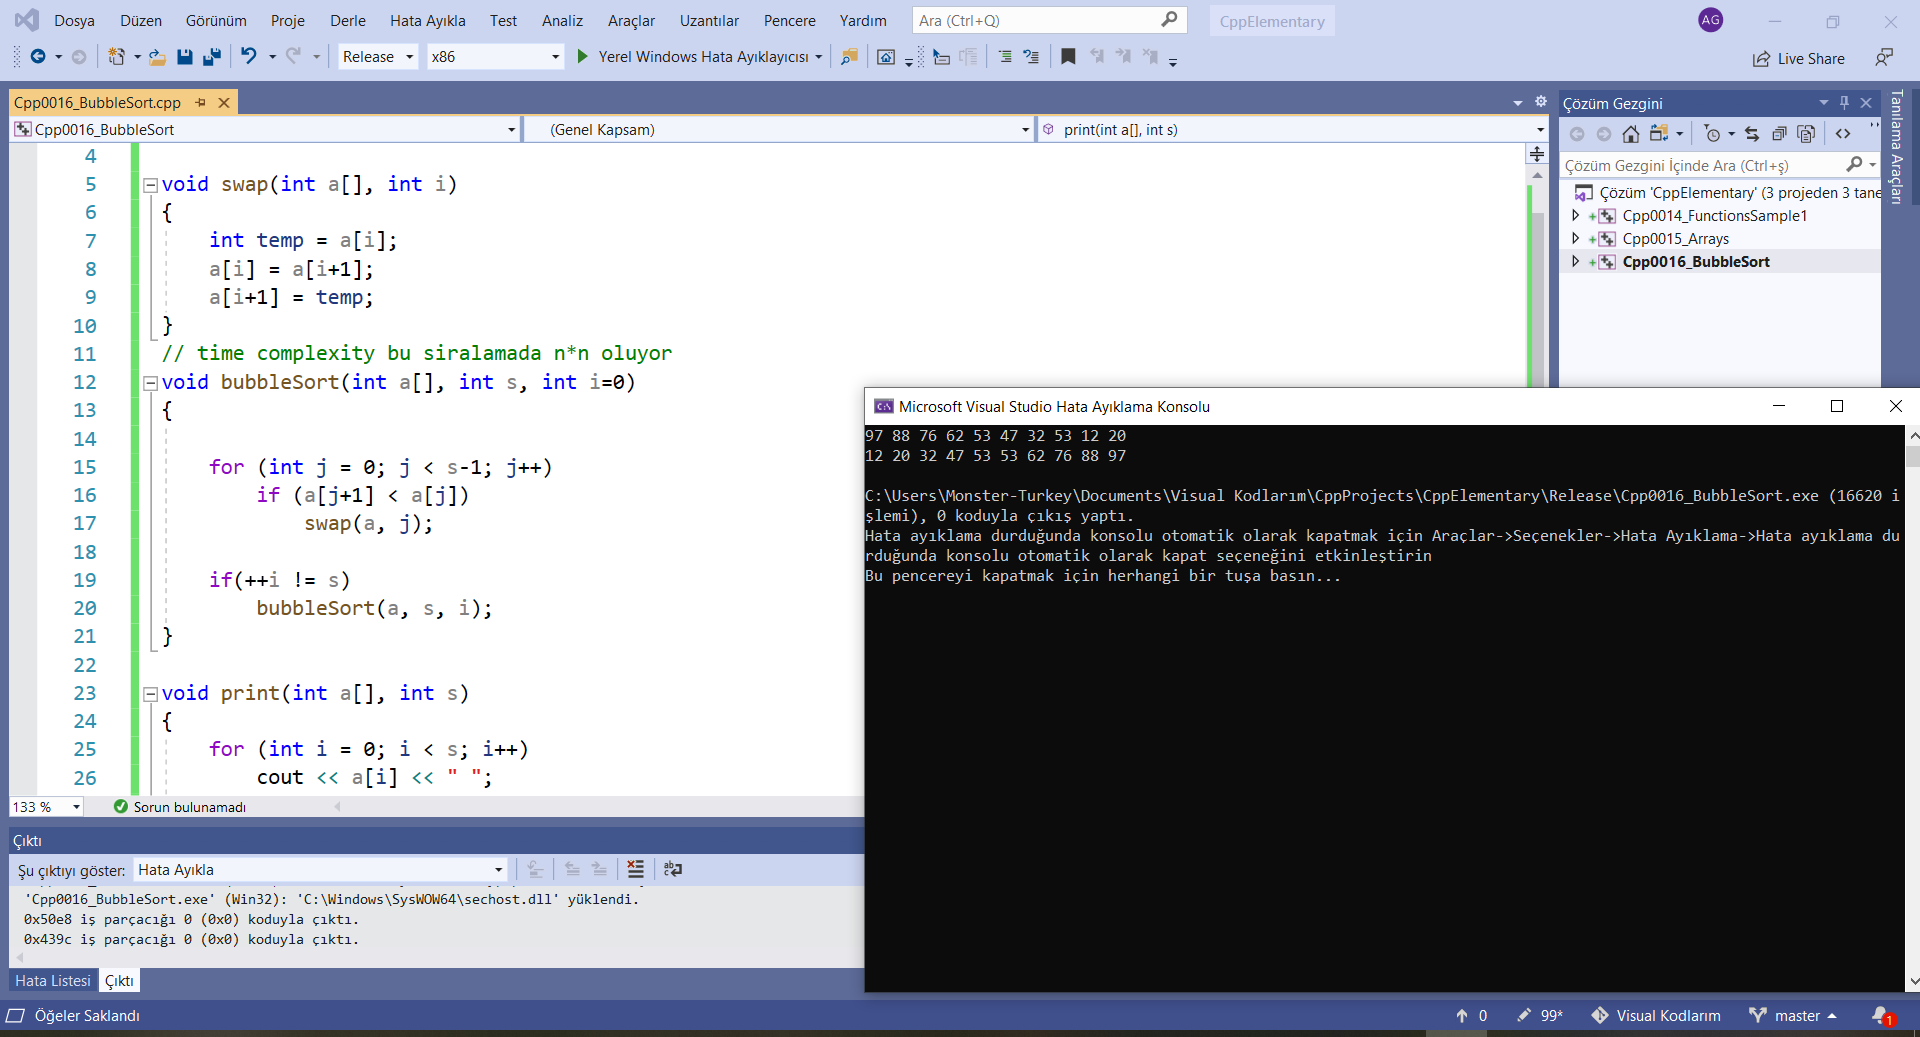
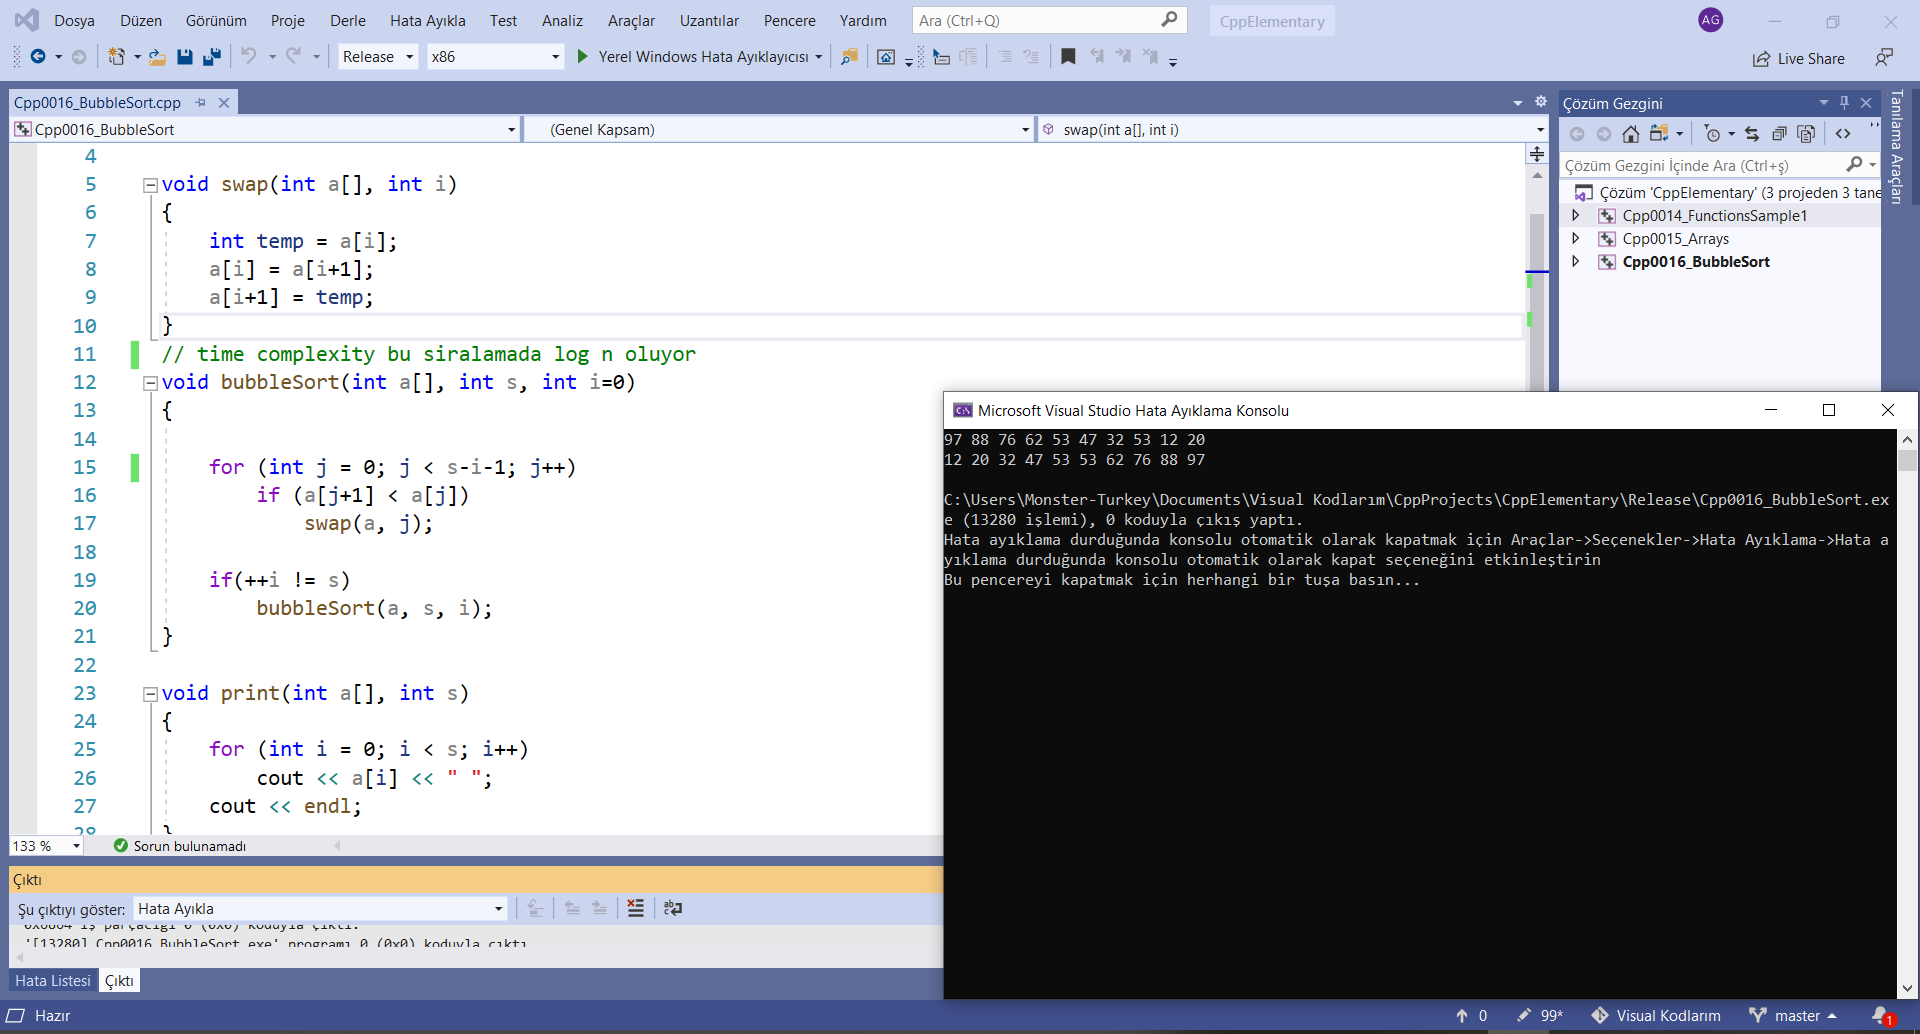
initial commit

diff --git a/Cpp0016_BubbleSort.cpp b/Cpp0016_BubbleSort.cpp
@@ -8,11 +8,11 @@ void swap(int a[], int i)
 	a[i] = a[i+1];
 	a[i+1] = temp;
 }
-// time complexity bu siralamada n*n oluyor
+// time complexity bu siralamada log n oluyor
 void bubbleSort(int a[], int s, int i=0)
 {
 
-	for (int j = 0; j < s-1; j++)
+	for (int j = 0; j < s-i-1; j++)
 		if (a[j+1] < a[j])
 			swap(a, j);
 
